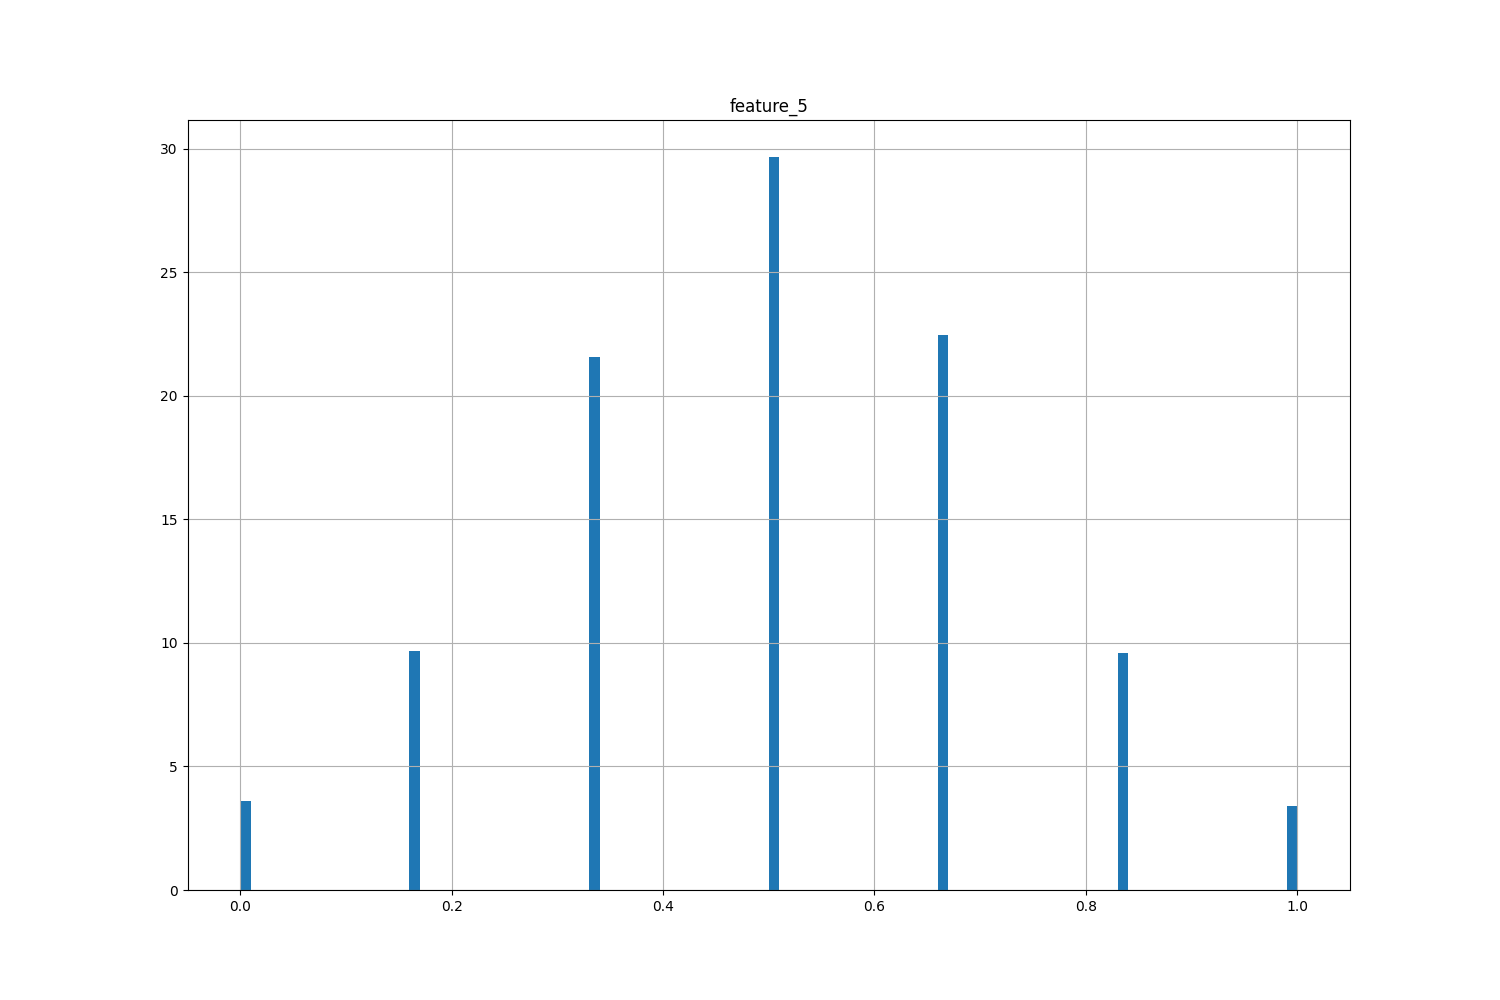
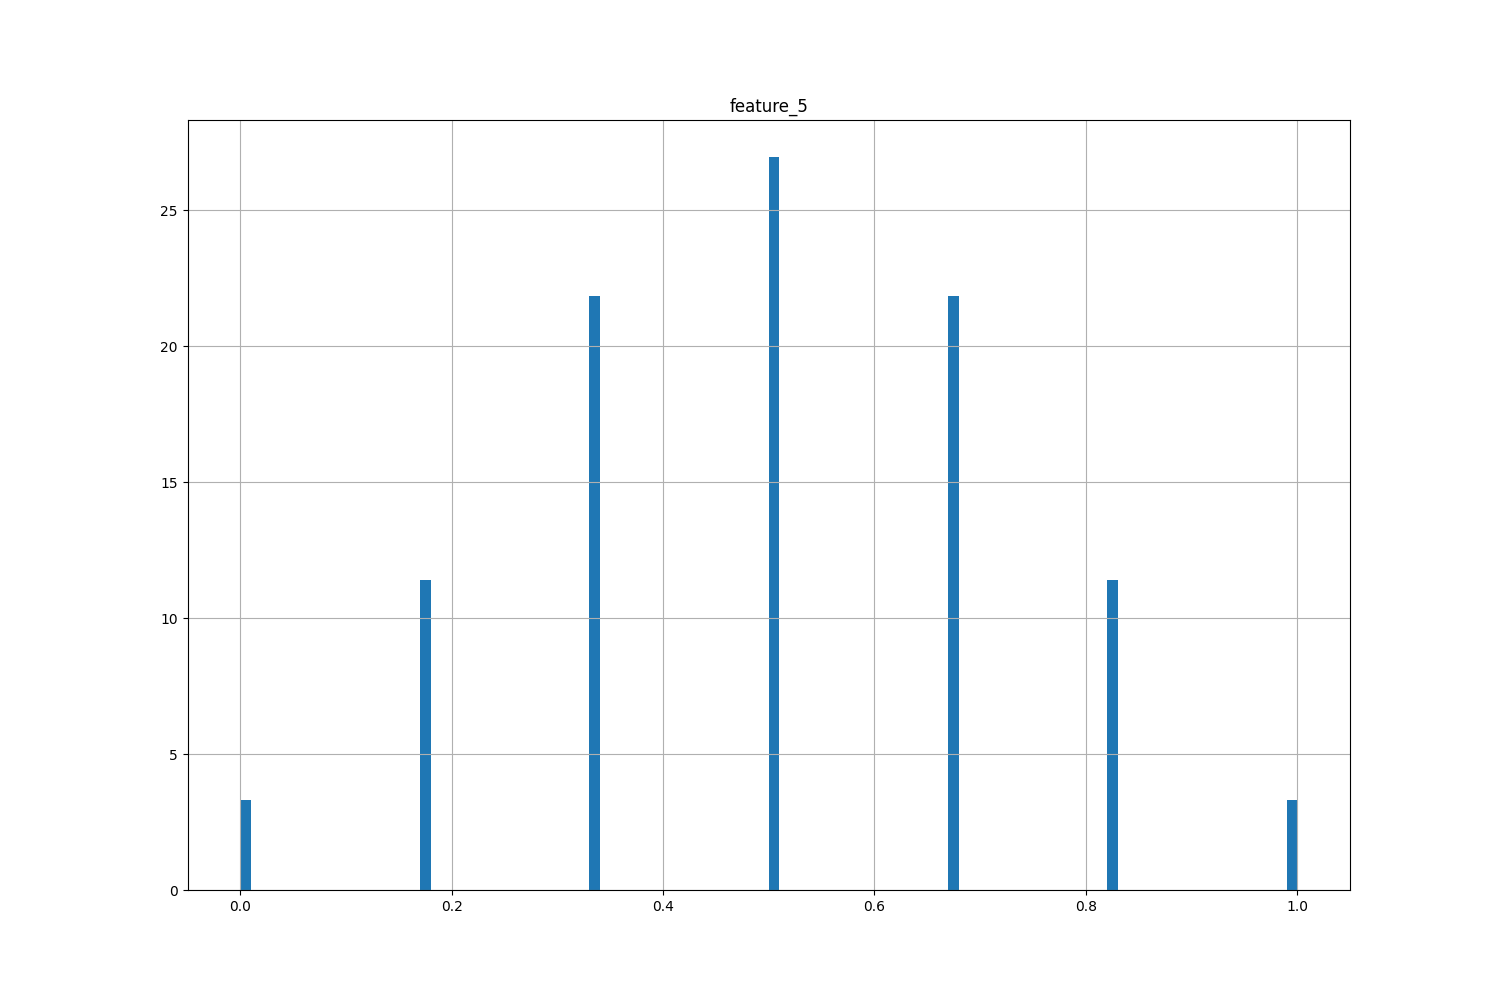
feat: stationary quantization

diff --git a/src/utils/quantization.py b/src/utils/quantization.py
@@ -109,36 +109,45 @@ class LloydMaxQuantizer(object):
                                    np.full(np.size(x_hat_q), repre[i]), x_hat_q)
         return x_hat_q
 
-def quantize(local_f_matrix):
+def quantize(x):
     
     bits = 7
     iterations = 10
 
-    features = local_f_matrix.columns[1:]
-    for feature in features:
-        x = local_f_matrix[feature]
-        repre = LloydMaxQuantizer.start_repre(x, bits)
-        min_loss = 1.0
+    repre = LloydMaxQuantizer.start_repre(x, bits)
+    min_loss = 1.0
 
-        for i in range(iterations):
-            thre = LloydMaxQuantizer.threshold(repre)
-            repre = LloydMaxQuantizer.represent(thre, expected_normal_dist, normal_dist)
-            x_hat_q = LloydMaxQuantizer.quant(x, thre, repre)
-            loss = MSE_loss(x, x_hat_q)
+    for i in range(iterations):
+        thre = LloydMaxQuantizer.threshold(repre)
+        repre = LloydMaxQuantizer.represent(thre, expected_normal_dist, normal_dist)
+        x_hat_q = LloydMaxQuantizer.quant(x, thre, repre)
+        loss = MSE_loss(x, x_hat_q)
 
-            # Keep the threhold and representation that has the lowest MSE loss.
-            if(min_loss > loss):
-                min_loss = loss
-                min_thre = thre
-                min_repre = repre
+        # Keep the threhold and representation that has the lowest MSE loss.
+        if(min_loss > loss):
+            min_loss = loss
+            min_thre = thre
+            min_repre = repre
 
-        #x_hat_q with the lowest amount of loss.
-        best_x_hat_q = LloydMaxQuantizer.quant(x, min_thre, min_repre)
+    #x_hat_q with the lowest amount of loss.
+    best_x_hat_q = LloydMaxQuantizer.quant(x, min_thre, min_repre)
 
-        unique = np.unique(best_x_hat_q)
-        discrete = np.linspace(0, 1, bits)
-        for i in range(len(unique))[::-1]:
-            best_x_hat_q[best_x_hat_q == unique[i]] = discrete[i]
-        
-        local_f_matrix[feature] = best_x_hat_q
-    return local_f_matrix
+    unique = np.unique(best_x_hat_q)
+    discrete = np.linspace(0, 1, bits)
+    for i in range(len(unique))[::-1]:
+        best_x_hat_q[best_x_hat_q == unique[i]] = discrete[i]
+    
+    return best_x_hat_q
+
+def hard_quantize(x, bins):
+    quant_index_list = []
+    limit_old = -np.inf
+    for idx, el in enumerate(bins):
+        limit = x.quantile(el)
+        quant_index = (x <= limit) & (x >= limit_old)
+        quant_index_list.append(quant_index)
+        limit_old = limit
+
+    for idx, qi in enumerate(quant_index_list):
+        x.loc[qi] = round(idx/ (len(bins) - 1), 2)
+    return x

diff --git a/src/targets.py b/src/targets.py
@@ -1,0 +1,62 @@
+import pandas as pd
+import scipy
+import numpy as np
+
+from utils.quantization import quantize
+import matplotlib.pyplot as plt
+from utils.quantization import hard_quantize
+
+def tg_process(tg):
+    
+    targets = tg.drop('date', axis=1).columns
+    epochs = tg['date'].unique()
+    tg_out = pd.DataFrame()
+    tg_out['date'] = tg['date']
+    for target in targets:
+        mn_tg = []
+        std_tg = []
+        kurt_tg = []
+        skew_tg = []
+        for epoch in epochs:
+            tg_date = tg[target][tg['date'] ==  epoch]
+            std = tg_date.std()
+            skew = scipy.stats.skew(tg_date)
+            kurt = scipy.stats.kurtosis(tg_date)
+            
+            mn_tg.append(tg_date.mean())
+            std_tg.append(std)
+            skew_tg.append(skew)
+            kurt_tg.append(kurt)
+
+        mn_tg = np.array(mn_tg)
+        std_tg = np.array(std_tg)
+        skew_tg = np.array(skew_tg)
+        kurt_tg = np.array(kurt_tg)
+        
+        moments = np.array([mn_tg, std_tg, skew_tg, kurt_tg])
+        mean_moments = np.mean(moments, axis=1)
+        for i in range(moments.shape[1]):
+            moments[:, i] -= mean_moments
+            distance_moments = np.linalg.norm(moments, axis=0)
+        train_sample = tg[tg['date'] == epochs[distance_moments.argmin()]][target]
+        
+        train_sample /= np.std(train_sample)
+        quant_train = quantize(train_sample)
+
+        bins = []
+        for i in np.unique(quant_train):
+            bins.append(np.count_nonzero(quant_train == i)/len(quant_train))
+        for j in range(int(np.ceil(len(bins)/2 - 1))):
+            bins[j] = (bins[j] + bins[-(j+1)])/2
+            bins[-(j+1)] = bins[j]
+        
+        print(bins)
+        for i in range(len(bins) - 1):
+            bins[i+1] += bins[i]
+        bins[-1] = 1 
+        print(bins)
+
+        quant = tg[['date', target]].groupby('date', group_keys=False).transform(lambda x: hard_quantize(x, bins))
+        tg_out = pd.concat([tg_out, quant], axis=1)
+
+    return tg_out

diff --git a/src/main.py b/src/main.py
@@ -4,6 +4,8 @@ import numpy as np
 import os
 
 from class_ import Data
+from utils.quantization import quantize
+from targets import tg_process
 
 def get_data():
     """
@@ -17,14 +19,23 @@ def main(gd=True):
     get_data: Boolean 
     
     """
+
+    print("----------Targets quantization start --------------------------------")
+    targets = pd.read_parquet("./data/target.parquet")
+    targets = tg_process(targets)
+    print(targets.head())
+    print(targets.describe())
+    print("----------Targets quantization done--------------------------------")
+
     if gd:
         get_data()
-    
+
     f_matrix = pd.read_parquet("./data/f_matrix.parquet")
     b_matrix = pd.read_parquet("./data/b_matrix.parquet")
 
 
     data = Data(f_matrix = f_matrix, b_matrix = b_matrix)
+    data.plot_dist(targets, fig_name= "check_tg_dist", ndist=100, gbell=False)
 
     print("----------Data reading done --------------------------------")
     print(data.f_matrix.head(), data.exposure().head())

diff --git a/src/class_.py b/src/class_.py
@@ -8,7 +8,7 @@ import utils.gauss
 from tqdm import tqdm
 from sklearn.decomposition import PCA
 from utils import gauss
-from utils.quantization import quantize
+from utils.quantization import hard_quantize
 
 class Data:
 
@@ -190,6 +190,8 @@ class Data:
         Returns: updated f_matrix after quantization
 
         """
-        self.f_matrix = self.f_matrix.groupby('date', group_keys=False).apply(lambda x: quantize(x))
+        bins = [0.0325, 0.1465, 0.365, 0.635, 0.8535, 0.9675, 1]
+        quant = self.f_matrix.groupby('date', group_keys=False).transform(lambda x: hard_quantize(x, bins))
+        self.f_matrix = pd.concat([self.f_matrix['date'], quant], axis=1)
         return 0
 

diff --git a/paper/paper.md b/paper/paper.md
@@ -50,7 +50,7 @@ In a supervised learning framework, associated with such feature matrix there ar
 
 # Orthogonalization
 
-One reason for which predictions $\hat{Y}$ with good linear correlation: 
+One reason for which predictions $\hat{Y}$ with good linear correlation:
 
 \begin{equation}
 corr(\hat{Y}, Y) \gg 0
@@ -249,6 +249,25 @@ We perform Lloyd-Max Quantization [@Lloyd_1982] to solve a classification proble
 
 \begin{figure}[!htb]
   \includegraphics[width=.55\linewidth]{figures/check5_corr_pearson.png}
+\end{figure}
+
+# Targets
+
+Targets are simply quantized. This is done maximizing the explained variance of the quantization scheme assuming a median distribution across all historical observations.
+
+\begin{figure}[!htb]
+\minipage{0.25\textwidth}
+  \includegraphics[width=\linewidth]{figures/check_tg_dist_target_w.png}
+\endminipage\hfill
+\minipage{0.25\textwidth}
+  \includegraphics[width=\linewidth]{figures/check_tg_dist_target_r.png}
+\endminipage\hfill
+\minipage{0.25\textwidth}%
+  \includegraphics[width=\linewidth]{figures/check5_dist_feature_g.png}
+\endminipage
+\minipage{0.25\textwidth}%
+  \includegraphics[width=\linewidth]{figures/check5_dist_feature_b.png}
+\endminipage
 \end{figure}
 
 # References
